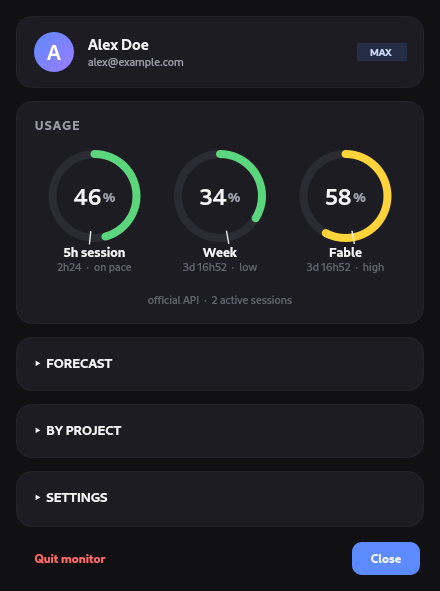
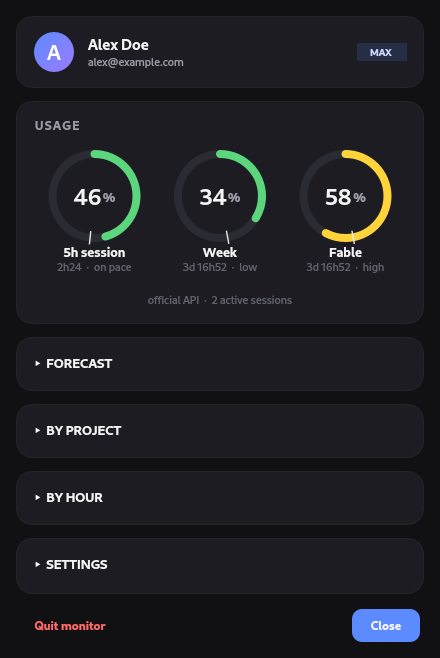
feat(dongle): half-rate timers while on battery
The dongle is a passenger on a laptop, and it was polling, scanning processes
and breathing at the same rate plugged or not — spending the battery on a
number that only changes every five minutes anyway. On battery the poll,
visibility and animation timers all run at half rate; unplugging is noticed on
the next poll, with no extra timer watching the cable.

utils.on_battery() reads the mains supplies' `online` flag, which is the state
of the CABLE. A battery's own `status` says Full/Charging/Discharging and reads
Full on a desktop with a UPS, which would throttle a machine that is not on
battery at all. Unknown resolves to False on purpose: a machine we can't
measure keeps the normal pace instead of being slowed down forever.

Off with the "Slow down on battery" switch; the panel's meta line says
"battery mode" while it is in effect.

diff --git a/claude_dongle/dongle.py b/claude_dongle/dongle.py
@@ -8,7 +8,7 @@ from PyQt6.QtGui import (QPainter, QColor, QBrush, QPen, QFont, QFontMetrics,
 from . import monitor, config, notifier, usage_api
 from .i18n import t as _t
 from .utils import (color as _color, fmt_time as _fmt_time, limits_blocking,
-                   availability_text,
+                   availability_text, on_battery,
                    FG, FG2, FG3, ORANGE, RED, UI_FONT)
 
 SENT_PATH = str(config.CONFIG_DIR / "sent_thresholds.json")
@@ -22,6 +22,7 @@ CLICK_SLOP = 8  # manhattan px: below this the release counts as a click
 HOT_RESET_S = 30 * 60  # session resetting sooner than this: countdown gets highlighted
 VIS_CHECK_MS = 5000  # visibility trigger (opening/closing a terminal reacts fast)
 BREATH_PERIOD_S = 5.5   # one full in/out of the warning border
+BATTERY_SLOWDOWN = 2    # every timer runs this much slower on battery
 BREATH_FRAME_MS = 80    # the timer ticks this often; a frame is only painted
                         # when the border actually changes (see _breath)
 _ANIMATE = os.environ.get("QT_QPA_PLATFORM") != "offscreen"  # no animation when headless
@@ -110,6 +111,7 @@ class DongleWidget(QWidget):
         self._critical = False    # a limit that blocks everything is exhausted
         self._availability = None # what is spent right now (tooltip)
         self._budget_s = None     # seconds of work left at the current pace
+        self._on_battery = False  # timers run slower while unplugged
         self._paint_stamp = None  # last countdown text painted (skips no-op repaints)
         self._breath_frame = None # last border frame painted (same idea)
         self._hidden = False
@@ -178,6 +180,27 @@ class DongleWidget(QWidget):
         self._anim_timer.timeout.connect(self._on_anim)
         self._anim_timer.start(1000)
         self.poll()
+
+    def _pace_multiplier(self):
+        return BATTERY_SLOWDOWN if self._on_battery else 1
+
+    def _apply_power_mode(self):
+        """On battery every timer runs at half rate.
+
+        The dongle is a passenger on a laptop: polling, scanning processes and
+        breathing at the same rate plugged or not spends the battery on a
+        number that changes every five minutes anyway. Unplugging is noticed
+        on the next poll — no extra timer to watch the cable.
+        """
+        wanted = on_battery() if self.cfg.get("battery_saver", True) else False
+        if wanted == self._on_battery:
+            return
+        self._on_battery = wanted
+        mult = self._pace_multiplier()
+        self._timer.setInterval(int(self.cfg["poll_interval"] * 1000 * mult))
+        self._vis_timer.setInterval(VIS_CHECK_MS * mult)
+        print("[dongle] %s power mode" % ("battery" if wanted else "mains"),
+              flush=True)
 
     def _breath(self):
         """(alpha, width) of the warning border right now.
@@ -321,9 +344,11 @@ class DongleWidget(QWidget):
             self._availability = u.get("availability")
             self._critical = (not self._stale) and limits_blocking(
                 self._s_pct, self._w_all)
+            self._apply_power_mode()
             # smooth frames while breathing; else 1s just for the countdown
             self._anim_timer.setInterval(
-                BREATH_FRAME_MS if (self._critical or self._overflow) else 1000)
+                (BREATH_FRAME_MS if (self._critical or self._overflow) else 1000)
+                * self._pace_multiplier())
             self._update_tooltip()
 
             self.update()

diff --git a/tests/test_utils.py b/tests/test_utils.py
@@ -45,3 +45,47 @@ def test_availability_separates_a_scoped_limit_from_a_total_stop():
     # nothing spent
     assert availability(10.0, [{"kind": "weekly_all", "pct": 20.0}]) == {
         "blocked": [], "everything_blocked": False}
+
+
+def _fake_supply(tmp_path, entries):
+    """entries: {name: (type, online or None)}"""
+    for name, (kind, online) in entries.items():
+        d = tmp_path / name
+        d.mkdir(parents=True)
+        (d / "type").write_text(kind + "\n")
+        if online is not None:
+            (d / "online").write_text(str(online) + "\n")
+    return str(tmp_path)
+
+
+def test_on_battery_reads_the_mains_cable(tmp_path, monkeypatch):
+    from claude_dongle import utils
+    monkeypatch.setattr(utils.sys, "platform", "linux")
+    root = _fake_supply(tmp_path / "unplugged",
+                        {"ACAD": ("Mains", 0), "BAT1": ("Battery", None)})
+    monkeypatch.setattr(utils, "POWER_SUPPLY", root)
+    assert utils.on_battery() is True
+
+    root = _fake_supply(tmp_path / "plugged",
+                        {"ACAD": ("Mains", 1), "BAT1": ("Battery", None)})
+    monkeypatch.setattr(utils, "POWER_SUPPLY", root)
+    assert utils.on_battery() is False
+
+
+def test_on_battery_is_false_when_it_cannot_tell(tmp_path, monkeypatch):
+    """A machine we can't measure keeps the normal pace instead of being
+    throttled forever."""
+    from claude_dongle import utils
+    monkeypatch.setattr(utils.sys, "platform", "linux")
+    monkeypatch.setattr(utils, "POWER_SUPPLY", str(tmp_path / "does-not-exist"))
+    assert utils.on_battery() is False
+    # a desktop with only a UPS battery and no mains entry: unknown, not battery
+    root = _fake_supply(tmp_path / "ups", {"BAT0": ("Battery", None)})
+    monkeypatch.setattr(utils, "POWER_SUPPLY", root)
+    assert utils.on_battery() is False
+
+
+def test_on_battery_is_false_off_linux(monkeypatch):
+    from claude_dongle import utils
+    monkeypatch.setattr(utils.sys, "platform", "darwin")
+    assert utils.on_battery() is False

diff --git a/claude_dongle/dashboard_ui.py b/claude_dongle/dashboard_ui.py
@@ -4,7 +4,8 @@ if sys.platform.startswith("linux"):
 
 from . import monitor, config, history, projects, notifier, i18n
 from .i18n import t as _t
-from .utils import (color, fmt_time, availability_text, RED, ORANGE, GREEN, BG, BG2, BG3, FG, FG2, FG3, SEP,
+from .utils import (color, fmt_time, availability_text, on_battery,
+                   RED, ORANGE, GREEN, BG, BG2, BG3, FG, FG2, FG3, SEP,
                    ACCENT, ACCENT2, SURFACE, SURFACE_HI, UI_FONT, UI_FONT_STACK)
 
 
@@ -1100,6 +1101,19 @@ class DashboardWidget(QWidget):
         row.addWidget(self.op_label)
         sbox.addLayout(row)
 
+        sbox.addSpacing(12)
+        batt_row = QHBoxLayout()
+        batt_row.setContentsMargins(0, 0, 0, 0)
+        batt_lbl = QLabel(_t("set.battery_saver"))
+        batt_lbl.setStyleSheet("font-size: 12px;")
+        batt_row.addWidget(batt_lbl)
+        batt_row.addStretch()
+        self.batt_switch = ToggleSwitch(self.cfg.get("battery_saver", True))
+        self.batt_switch.onToggled(
+            lambda v: self._on_notify_switch("battery_saver", v))
+        batt_row.addWidget(self.batt_switch)
+        sbox.addLayout(batt_row)
+
         sbox.addSpacing(20)
         sbox.addWidget(self._card_title(_t("card.visibility")))
         sbox.addSpacing(6)
@@ -1285,6 +1299,8 @@ class DashboardWidget(QWidget):
                          else _t("meta.sessions", n=act))
         if u.get("overage_status") == "enabled":
             parts.append(_t("meta.extra_on"))
+        if self.cfg.get("battery_saver", True) and on_battery():
+            parts.append(_t("meta.on_battery"))
         return "  ·  ".join(parts)
 
     # ---- settings ---------------------------------------------------------

diff --git a/claude_dongle/utils.py b/claude_dongle/utils.py
@@ -1,3 +1,4 @@
+import os
 import sys
 import time
 
@@ -129,3 +130,37 @@ def availability_text(usage):
         return None
     t_left = left(blocked[0].get("reset")) or fmt_time(usage.get("seconds_until_reset"))
     return _t("avail.spent_scope", model=", ".join(models), time=t_left)
+
+
+POWER_SUPPLY = "/sys/class/power_supply"
+
+
+def on_battery():
+    """True when the machine is running on battery, False on mains or unknown.
+
+    Reads the "Mains" supplies' `online` flag: it is the state of the CABLE,
+    which is what should slow the monitor down, while a battery's `status` says
+    Full/Charging/Discharging and reads Full on a desktop with a UPS. Unknown
+    means False on purpose — a machine we can't measure keeps the normal pace
+    instead of being throttled forever.
+    """
+    if not sys.platform.startswith("linux"):
+        return False
+    try:
+        names = os.listdir(POWER_SUPPLY)
+    except OSError:
+        return False
+    seen_mains = False
+    for name in names:
+        base = os.path.join(POWER_SUPPLY, name)
+        try:
+            with open(os.path.join(base, "type")) as f:
+                if f.read().strip() != "Mains":
+                    continue
+            seen_mains = True
+            with open(os.path.join(base, "online")) as f:
+                if f.read().strip() == "1":
+                    return False
+        except OSError:
+            continue
+    return seen_mains  # every mains supply reported offline

diff --git a/scripts/gen_screenshots.py b/scripts/gen_screenshots.py
@@ -97,6 +97,12 @@ projects.summary = lambda days=7, limit=8: {
 projects.daily = lambda days=14: [
     (f"2026-06-{20 + i:02d}", HEAT[i] * 120_000) for i in range(14)]
 history.record = lambda *a, **k: None
+# A plausible working day — never the real profile: it would put the author's
+# actual working hours in a public README.
+FAKE_HOURS = [0.2, 0.1, 0, 0, 0, 0, 0, 0.3, 1.1, 2.4, 3.6, 4.1, 2.2, 3.9,
+              5.4, 4.8, 5.9, 6.8, 4.2, 2.6, 3.1, 2.0, 0.9, 0.4]
+history.hourly_profile = lambda *a, **k: {
+    "hours": FAKE_HOURS, "days": 14, "peak": 17}
 history.attach_forecasts = lambda *a, **k: None
 config.save = lambda *a, **k: None
 
@@ -142,6 +148,7 @@ def gen_app_shots():
     for name, over in (("dashboard", dict(forecast_expanded=False, projects_expanded=False,
                                           settings_expanded=False)),
                        ("dashboard-full", dict(forecast_expanded=True, projects_expanded=True,
+                                               hours_expanded=True,
                                                settings_expanded=True))):
         w = DashboardWidget(_cfg(**over))
         w.show(); app.processEvents()

diff --git a/claude_dongle/i18n.py b/claude_dongle/i18n.py
@@ -77,6 +77,8 @@ EN = {
 
     # settings
     "set.opacity": "Opacity",
+    "set.battery_saver": "Slow down on battery",
+    "meta.on_battery": "battery mode",
     "vis.always": "Always visible",
     "vis.claude": "Only with Claude Code",
     "vis.dev": "Only with VS Code / terminal",
@@ -187,6 +189,8 @@ PT = {
     "pj.heatmap_tip": "à direita = mais recente · tom = uso",
 
     "set.opacity": "Opacidade",
+    "set.battery_saver": "Ir mais devagar na bateria",
+    "meta.on_battery": "modo bateria",
     "vis.always": "Sempre visível",
     "vis.claude": "Só com o Claude Code",
     "vis.dev": "Só com VS Code / terminal",

diff --git a/claude_dongle/config.py b/claude_dongle/config.py
@@ -19,6 +19,7 @@ DEFAULTS = {
     # "auto" follows the system language (pt-BR when it speaks Portuguese),
     # or pin it: "en" / "pt-BR".
     "language": "auto",
+    "battery_saver": True,         # halve the timers while on battery
     "poll_interval": 5,
     "thresholds": [50, 70, 85, 95],
     "notify_on_threshold": True,

diff --git a/README.md b/README.md
@@ -44,6 +44,13 @@ login, nothing sent anywhere.
   pace at a glance, no math.
 - **Per-project & per-model usage** — from Claude Code's local logs, it shows
   which projects and models ate your week (with a 14-day heatmap).
+- **What's still usable** — a model running out of its weekly quota doesn't
+  stop the others, so the panel says exactly that, and when it comes back.
+- **Budget, not just a threat** — the forecast answers "can I take one more
+  task?": *~2h30 of work left · the reset only comes in 1d 23h*.
+- **Your burn by hour of the day** — built from the history it already keeps,
+  it shows the hours you actually spend the window on.
+- **Easy on the battery** — every timer runs at half rate while unplugged.
 - **Limit notifications** — alerts when you cross a threshold, when a limit is
   reached and on the overflow forecast, each limit tracked as its own series.
   Everything crossing in the same reading arrives as one notification, a
